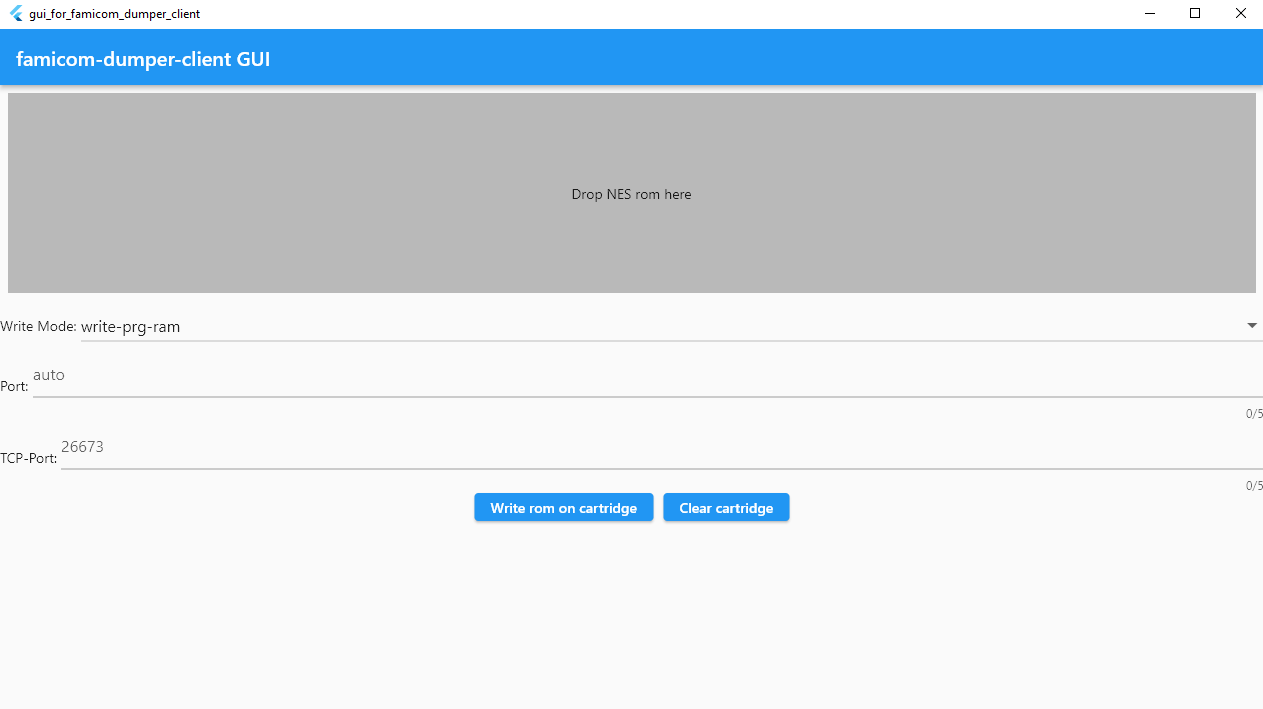
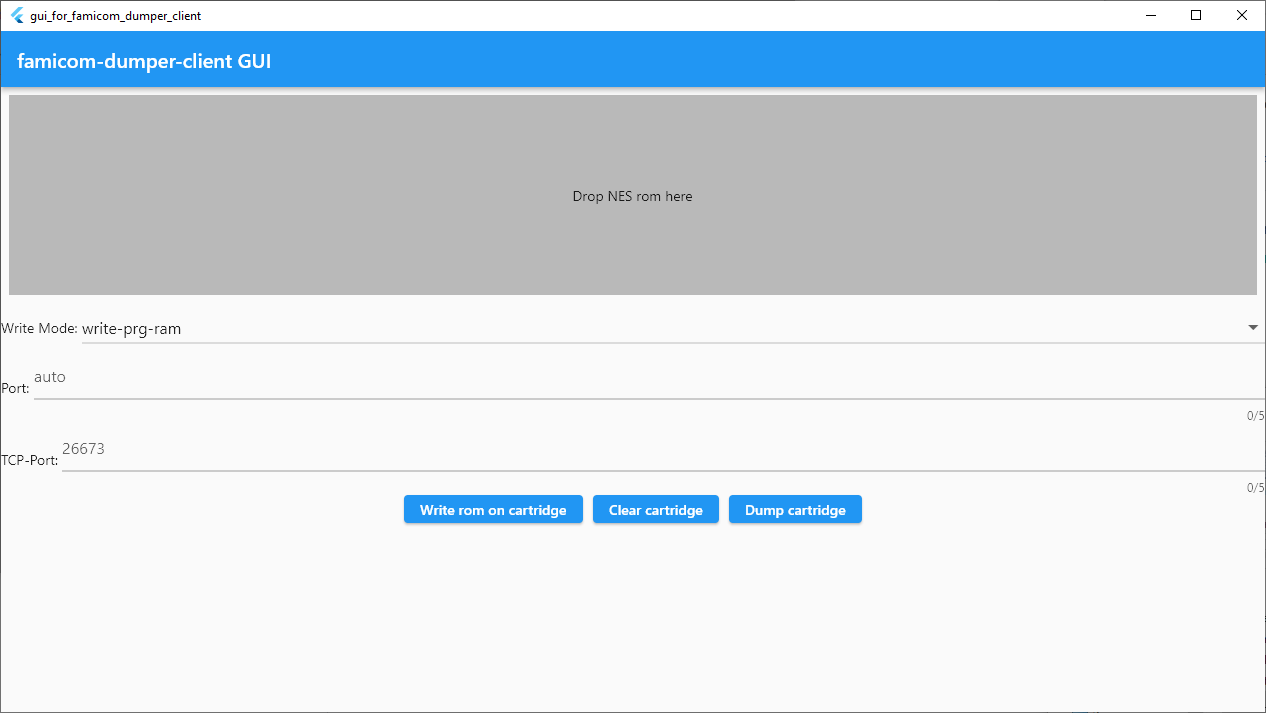
pub

diff --git a/lib/main.dart b/lib/main.dart
@@ -173,6 +173,12 @@ class _MyHomePageState extends State<MyHomePage> {
                     resetCartridge();
                   }),
                 ),
+                ElevatedButton(
+                  child: Text("Dump cartridge"),
+                  onPressed: (() {
+                    dumpCartridge(Directory.current.path);
+                  }),
+                ),
               ],
             ),
           ],
@@ -203,9 +209,43 @@ class _MyHomePageState extends State<MyHomePage> {
       ],
       runInShell: true,
     );
-    _OutputDialog(process.stdout, 'Famicom Dumper Client Output');
+    String info = "";
+    if (process.stdout.length > 0) {
+      info += "Output\n";
+      info += process.stdout + "\n";
+    }
+    if (process.stderr.length > 0) {
+      info += "Error\n";
+      info += process.stderr + "\n";
+    }
+    _OutputDialog(info, 'Famicom Dumper Client Output');
     print(process.stdout);
     print(process.stderr);
+  }
+
+  void dumpCartridge(String filePath) {
+    final String curFolder = path.current.replaceAll(r"\", r"/");
+    final String famicomDumperClientExePath =
+        "$curFolder/famicom_dumper_client/famicom-dumper.exe";
+    var process = Process.runSync(
+      "$famicomDumperClientExePath",
+      [
+        "dump",
+        "--file",
+        filePath,
+      ],
+      runInShell: true,
+    );
+    String info = "";
+    if (process.stdout.length > 0) {
+      info += "Output\n";
+      info += process.stdout + "\n";
+    }
+    if (process.stderr.length > 0) {
+      info += "Error\n";
+      info += process.stderr + "\n";
+    }
+    _OutputDialog(info, 'Famicom Dumper Client Output');
   }
 
   Future<void> _OutputDialog(String outputText, String titleText) async {
@@ -266,6 +306,15 @@ class _MyHomePageState extends State<MyHomePage> {
       runInShell: true,
     );
 
-    _OutputDialog(process.stdout, 'Famicom Dumper Client Output');
+    String info = "";
+    if (process.stdout.length > 0) {
+      info += "Output\n";
+      info += process.stdout + "\n";
+    }
+    if (process.stderr.length > 0) {
+      info += "Error\n";
+      info += process.stderr + "\n";
+    }
+    _OutputDialog(info, 'Famicom Dumper Client Output');
   }
 }

diff --git a/README.md b/README.md
@@ -1,12 +1,16 @@
-# GUI for famicom-dumper-client
+# gui_for_famicom_dumper_client
 
-![Tool logo](https://github.com/bolon667/famicom-dumper-client-GUI/blob/main/images/readmePic1.png)
+A new Flutter project.
 
-Simple GUI for famicom-dumper-client
+## Getting Started
 
-## How to install
+This project is a starting point for a Flutter application.
 
-1. Download `gui_for_famicom_dumper_client` from Releases on github
-2. Download famicom-dumper-client from [this link](https://github.com/ClusterM/famicom-dumper-client)
-3. Put program files `famicom-dumper-client` inside `famicom_dumper_client` folder
+A few resources to get you started if this is your first Flutter project:
 
+- [Lab: Write your first Flutter app](https://docs.flutter.dev/get-started/codelab)
+- [Cookbook: Useful Flutter samples](https://docs.flutter.dev/cookbook)
+
+For help getting started with Flutter development, view the
+[online documentation](https://docs.flutter.dev/), which offers tutorials,
+samples, guidance on mobile development, and a full API reference.
